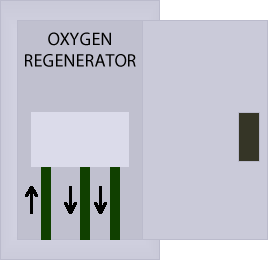
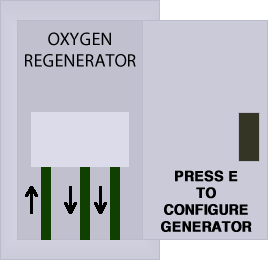
Added levels 6 and 7, revised other levels, new objects

Changed region(s): [[0.597, 0.6462, 0.9552, 0.8923]]

diff --git a/src/tsa2035/game/content/levels/level1/Level6.java b/src/tsa2035/game/content/levels/level1/Level6.java
@@ -23,23 +23,42 @@ public class Level6 extends Scene {
 			setBackground(new SpriteBackground(TextureManager.getTextureFromResource("/tsa2035/game/content/images/common/wallpanels.png")));
 			addToScene("character", new MainCharacter(-0.45f, -0.6f)).setLayer(10);
 			addToScene("floor", new Sprite(0f, -0.98f, TextureManager.getTextureFromResource("/tsa2035/game/content/images/common/floor.png"))).setSolid(true);
-			addToScene("pipes", new Sprite(0f, 0.89f, TextureManager.getTextureFromResource("/tsa2035/game/content/images/common/pipes.png"))).setSolid(true).setLayer(0);
-			addToScene("vents", new Sprite(0f, 0.7f, TextureManager.getTextureFromResource("/tsa2035/game/content/images/common/vents.png"))).setLayer(-1);
-			addToScene("door", new Sprite(0.75f, -0.58f, TextureManager.getTextureFromResource("/tsa2035/game/content/images/common/door.png"))).setLayer(-2).setInteractable(true);
+			addToScene("pipes", new Sprite(0f, 0.89f, TextureManager.getTextureFromResource("/tsa2035/game/content/images/common/pipes.png"))).setLayer(2);
+			addToScene("vents", new Sprite(0f, 0.7f, TextureManager.getTextureFromResource("/tsa2035/game/content/images/common/vents.png"))).setLayer(2);
+			addToScene("door", new Sprite(-0.78f, -0.58f, TextureManager.getTextureFromResource("/tsa2035/game/content/images/common/door.png"))).setInteractable(true);
 			
-			
-
-			final PolyTexSprite switchbox = new PolyTexSprite(0.93f, 0.4f, "off", TextureManager.getTextureFromResource("/tsa2035/game/content/images/common/switch_off.png"), false);
-			addToScene("switch", switchbox).setScale(0.5f).setInteractable(true);
-			switchbox.addTexture("on", TextureManager.getTextureFromResource("/tsa2035/game/content/images/common/switch_on.png"));
-			switchbox.registerInteractionCallback(new InteractionCallback(){
+			addToScene("gosign", new Sprite(0f, 0.35f, TextureManager.getTextureFromResource("/tsa2035/game/content/images/common/goleft.png"))).setScale(0.8f);
+			addToScene("wallpipes", new Sprite(0f, 0f, TextureManager.getTextureFromResource("/tsa2035/game/content/images/common/wallpipes.png"))).setLayer(1);
+		
+			final PolyTexSprite mainpwr = new PolyTexSprite(-0.2f,-0.4f, "closed", TextureManager.getTextureFromResource("/tsa2035/game/content/images/common/accessdoor_all_closed.png"), false);
+			addToScene("mainpower", mainpwr).setScale(0.5f).setInteractable(true);
+			mainpwr.addTexture("open", TextureManager.getTextureFromResource("/tsa2035/game/content/images/common/accessdoor_mainpwr_open.png"));
+			mainpwr.registerInteractionCallback(new InteractionCallback(){
 			@Override
 			public void interactionOccured(Sprite interacter,
 			Sprite interactee) 
 			{
-			switchbox.setTexture("on");}});
+			mainpwr.setTexture("open");}});
 			
-			addToScene("gate", new Sprite(0.3f, -0.68f, TextureManager.getTextureFromResource("/tsa2035/game/content/images/gate/gate0001.png"))).setSolid(true);
+			final PolyTexSprite auxpwr = new PolyTexSprite(0.15f,-0.4f, "closed", TextureManager.getTextureFromResource("/tsa2035/game/content/images/common/accessdoor_all_closed.png"), false);
+			addToScene("auxpower", auxpwr).setScale(0.5f).setInteractable(true);
+			auxpwr.addTexture("open", TextureManager.getTextureFromResource("/tsa2035/game/content/images/common/accessdoor_auxpwr_open.png"));
+			auxpwr.registerInteractionCallback(new InteractionCallback(){
+			@Override
+			public void interactionOccured(Sprite interacter,
+			Sprite interactee) 
+			{
+			auxpwr.setTexture("open");}});
+
+			final PolyTexSprite odist = new PolyTexSprite(0.498f,-0.4f, "closed", TextureManager.getTextureFromResource("/tsa2035/game/content/images/common/accessdoor_dist_closed.png"), false);
+			addToScene("oxygendistributor", odist).setScale(0.5f).setInteractable(true);
+			odist.addTexture("open", TextureManager.getTextureFromResource("/tsa2035/game/content/images/common/accessdoor_dist_open_nready.png"));
+			odist.registerInteractionCallback(new InteractionCallback(){
+			@Override
+			public void interactionOccured(Sprite interacter,
+			Sprite interactee) 
+			{
+				odist.setTexture("open");}});
 			
 			getObject("door").registerInteractionCallback(new InteractionCallback()
 			{
@@ -47,7 +66,7 @@ public class Level6 extends Scene {
 				@Override
 				public void interactionOccured(Sprite registeredObject,
 						Sprite withObject) {
-					Renderer.animatedSceneSwitch(new Level6());
+					Renderer.animatedSceneSwitch(new Level7());
 					
 				}
 				

diff --git a/src/tsa2035/game/content/levels/level1/Level7.java b/src/tsa2035/game/content/levels/level1/Level7.java
@@ -1,0 +1,68 @@
+package tsa2035.game.content.levels.level1;
+
+import java.io.IOException;
+
+import tsa2035.game.content.levels.MainCharacter;
+import tsa2035.game.engine.bounding.Side;
+import tsa2035.game.engine.core.Renderer;
+import tsa2035.game.engine.scene.CollisionCallback;
+import tsa2035.game.engine.scene.InteractionCallback;
+import tsa2035.game.engine.scene.Ladder;
+import tsa2035.game.engine.scene.PolyTexSprite;
+import tsa2035.game.engine.scene.Scene;
+import tsa2035.game.engine.scene.Sprite;
+import tsa2035.game.engine.scene.background.SpriteBackground;
+import tsa2035.game.engine.texture.LoopedAnimatedTexture;
+import tsa2035.game.engine.texture.TextureManager;
+
+public class Level7 extends Scene {
+	
+	public Level7()
+	{
+		try {
+			setBackground(new SpriteBackground(TextureManager.getTextureFromResource("/tsa2035/game/content/images/common/wallpanels.png")));
+			addToScene("character", new MainCharacter(0.75f, -0.6f)).setLayer(10);
+			addToScene("floor", new Sprite(0f, -0.98f, TextureManager.getTextureFromResource("/tsa2035/game/content/images/common/floor.png"))).setSolid(true);
+			addToScene("pipes", new Sprite(0f, 0.89f, TextureManager.getTextureFromResource("/tsa2035/game/content/images/common/pipes.png"))).setLayer(2);
+			addToScene("vents", new Sprite(0f, 0.7f, TextureManager.getTextureFromResource("/tsa2035/game/content/images/common/vents.png"))).setLayer(2);
+			addToScene("door", new Sprite(0.78f, -0.58f, TextureManager.getTextureFromResource("/tsa2035/game/content/images/common/door.png"))).setInteractable(true);
+			
+			addToScene("wallpipes", new Sprite(0f, 0f, TextureManager.getTextureFromResource("/tsa2035/game/content/images/common/wallpipes2.png"))).setLayer(1);
+			addToScene("ogenerator", new Sprite(-0.48f, -0.5f, TextureManager.getTextureFromResource("/tsa2035/game/content/images/common/oxygengenerator.png")));
+			addToScene("statuspanel", new Sprite(0.45f, -0.5f, new LoopedAnimatedTexture("/tsa2035/game/content/images/common", "statuspanel", 2, 2))).setScale(0.5f);
+
+			final PolyTexSprite regen = new PolyTexSprite(0.1f,-0.42f, "closed", TextureManager.getTextureFromResource("/tsa2035/game/content/images/common/accessdoor_all_closed.png"), false);
+			addToScene("regenpanel", regen).setScale(0.5f).setInteractable(true);
+			regen.addTexture("open", TextureManager.getTextureFromResource("/tsa2035/game/content/images/common/accessdoor_regen_open.png"));
+			regen.registerInteractionCallback(new InteractionCallback(){
+			@Override
+			public void interactionOccured(Sprite interacter,
+			Sprite interactee) 
+			{
+			regen.setTexture("open");}});
+			
+			getObject("door").registerInteractionCallback(new InteractionCallback()
+			{
+
+				@Override
+				public void interactionOccured(Sprite registeredObject,
+						Sprite withObject) {
+					Renderer.animatedSceneSwitch(new Level6());
+					
+				}
+				
+			});
+			
+		} catch (IOException e) {
+			System.out.println("Texture loading failed!");
+			e.printStackTrace();
+		}
+	}
+	
+	@Override
+	public void sceneLogic() {
+		// This function is called every render loop
+		// Note: callbacks are the prefered way to do collision/interaction checking, not polling
+	}
+
+}

diff --git a/src/tsa2035/game/content/core/Game.java b/src/tsa2035/game/content/core/Game.java
@@ -3,7 +3,7 @@ package tsa2035.game.content.core;
 import org.lwjgl.LWJGLException;
 
 import tsa2035.game.content.levels.level1.DemoLevel;
-import tsa2035.game.content.levels.level1.Level6;
+import tsa2035.game.content.levels.level1.Level1;
 import tsa2035.game.engine.core.Renderer;
 
 public class Game {
@@ -14,7 +14,7 @@ public class Game {
 	 */
 	public static void main(String[] args) throws LWJGLException {
 		Renderer.init(800, 600);
-		Renderer.renderLoop(new Level6());
+		Renderer.renderLoop(new Level1());
 	}
 
 }
